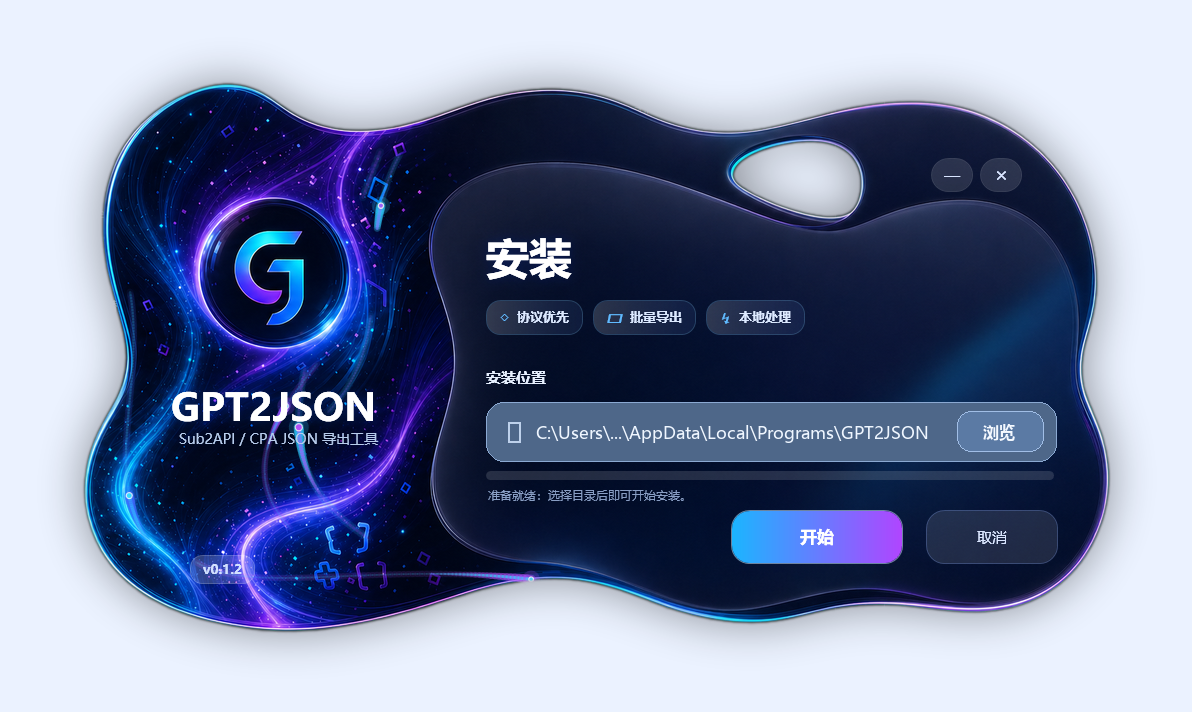
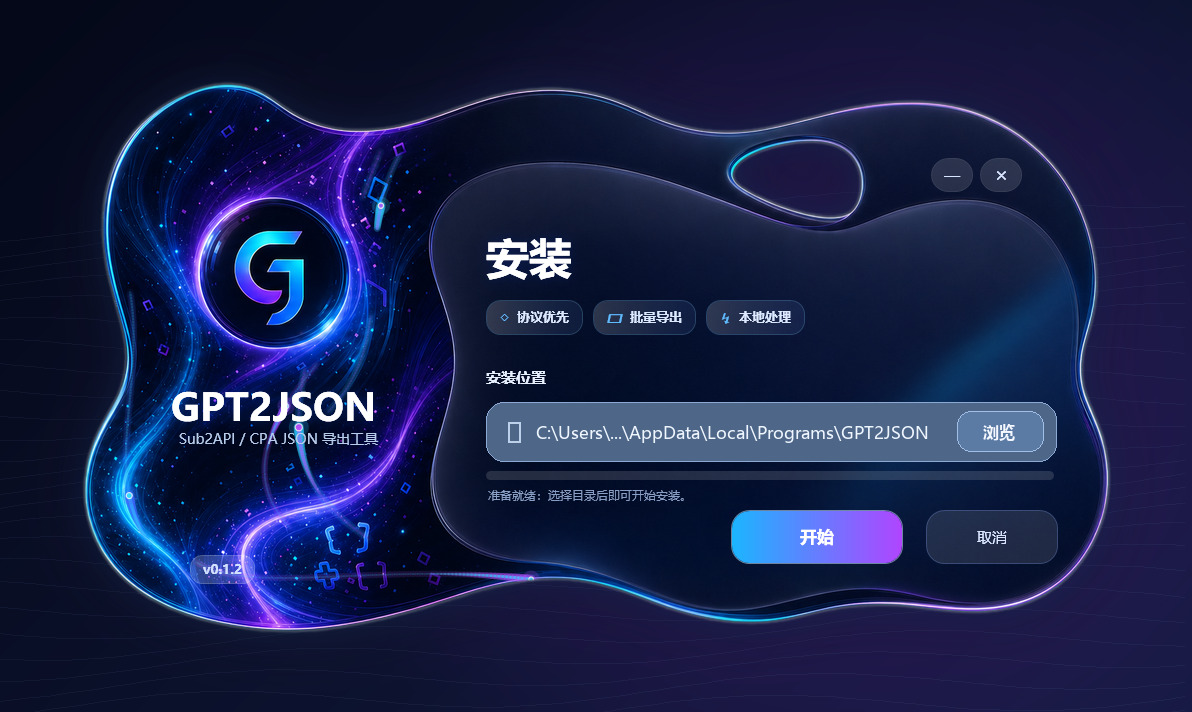
Polish README layout and installer preview

diff --git a/README.md b/README.md
@@ -5,44 +5,70 @@
 <h1 align="center">GPT2JSON</h1>
 
 <p align="center">
-  面向中文环境的 Sub2API / CPA JSON 导出工具。协议优先、轻量桌面化、本地生成、批次隔离。
+  面向中文交付场景的 <b>Sub2API / CPA JSON 导出工具</b>：协议优先、本地生成、批次隔离，不直接写入后台。
 </p>
 
 <p align="center">
-  <a href="https://github.com/AyeSt0/gpt2json/releases"><img alt="Latest Release" src="https://img.shields.io/github/v/release/AyeSt0/gpt2json?style=for-the-badge&label=release&color=2563EB"></a>
+  <a href="https://github.com/AyeSt0/gpt2json/releases/latest"><img alt="下载 Windows 安装器" src="https://img.shields.io/badge/%E4%B8%8B%E8%BD%BD-Windows%20%E5%AE%89%E8%A3%85%E5%99%A8-38BDF8?style=for-the-badge&logo=windows11&logoColor=white"></a>
+  <a href="https://github.com/AyeSt0/gpt2json/releases/latest"><img alt="下载 ZIP 便携包" src="https://img.shields.io/badge/%E4%B8%8B%E8%BD%BD-ZIP%20%E4%BE%BF%E6%90%BA%E5%8C%85-8B5CF6?style=for-the-badge&logo=github&logoColor=white"></a>
   <a href="https://github.com/AyeSt0/gpt2json/actions/workflows/ci.yml"><img alt="CI" src="https://img.shields.io/github/actions/workflow/status/AyeSt0/gpt2json/ci.yml?branch=main&style=for-the-badge&label=tests"></a>
   <a href="LICENSE"><img alt="License" src="https://img.shields.io/github/license/AyeSt0/gpt2json?style=for-the-badge"></a>
-  <img alt="Python" src="https://img.shields.io/badge/python-3.10%2B-3776AB?style=for-the-badge&logo=python&logoColor=white">
-  <img alt="GUI" src="https://img.shields.io/badge/gui-PySide6-7C3AED?style=for-the-badge">
 </p>
 
 <p align="center">
-  <a href="#-它解决什么问题">解决的问题</a> ·
+  <a href="#-为什么用-gpt2json">为什么用</a> ·
+  <a href="#-界面预览">界面预览</a> ·
   <a href="#-快速开始">快速开始</a> ·
-  <a href="#-输入格式">输入格式</a> ·
-  <a href="#-输出结构">输出结构</a> ·
-  <a href="#-发行包">发行包</a> ·
-  <a href="#-路线图">路线图</a>
+  <a href="#-当前支持的输入">输入格式</a> ·
+  <a href="#-输出结果">输出结果</a> ·
+  <a href="#-windows-发行包">Windows 发行包</a> ·
+  <a href="#-开发">开发</a>
 </p>
 
 ---
 
-## ✨ 它解决什么问题
+## ✦ 为什么用 GPT2JSON
 
-GPT2JSON 把账号文本批量转换为可导入的 **Sub2API JSON** 和 / 或 **CPA 单账号 JSON**。它只在本地生成文件，不会直接写入 Sub2API 后台，适合“先生成、再检查、最后导入”的交付流程。
+很多账号交付流程里，真正需要的不是“把账号直接塞进某个后台”，而是先把可导入的 JSON 文件稳定生成出来，再由你检查、归档、导入。GPT2JSON 做的就是这一步：把账号文本转换为 **Sub2API JSON** 和 / 或 **CPA 单账号 JSON**。
 
-| 能力 | 当前状态 | 说明 |
+| 设计点 | 用户收益 |
+| --- | --- |
+| **协议优先** | 默认走 HTTP/OAuth 流程，避免浏览器自动化带来的慢、重、不稳定。 |
+| **本地生成** | 不直连你的 Sub2API 后台；导出文件保存在本机，导入动作由你控制。 |
+| **批次隔离** | 每次运行创建唯一结果目录，历史文件不被覆盖，方便回溯。 |
+| **中文 GUI** | 粘贴、导入、导出、日志、失败报告都按中文使用习惯组织。 |
+| **可扩展输入** | 当前先适配 LDXP Plus7 三段式；后续 parser / OTP backend 可持续增加。 |
+
+```mermaid
+flowchart LR
+  A["粘贴 / 导入账号文本"] --> B["自动识别格式"]
+  B --> C["协议登录"]
+  C --> D{"是否需要验证码"}
+  D -- "大多数账号" --> F["换取 JSON"]
+  D -- "少数跳验证" --> E["免登录取码源 / OTP backend"]
+  E --> F
+  F --> G["Sub2API JSON"]
+  F --> H["CPA 单账号 JSON + ZIP"]
+  G --> I["打开本次结果目录"]
+  H --> I
+```
+
+## ✦ 当前能力
+
+| 模块 | 状态 | 说明 |
 | --- | --- | --- |
-| 协议登录 | ✅ 已实现 | 默认走 HTTP/OAuth 流程，不拉起浏览器自动化。 |
-| 粘贴 / 文件输入 | ✅ 已实现 | 桌面端可直接粘贴多行，也可导入文本文件。 |
-| 自动并发 | ✅ 已实现 | 默认按账号数量自动选择并发，也支持手动输入。 |
-| 免登录取码 URL | ✅ 已实现 | 支持 JSON / 文本 / HTML 内 API 自动发现。 |
+| 账号输入 | ✅ 已实现 | 支持粘贴多行，也支持导入 `.txt` 文件。 |
+| 自动识别 | ✅ 已实现 | 默认 `自动识别（推荐）`；未实现格式在界面中置灰展示。 |
+| 登录流程 | ✅ 已实现 | 账密优先；只有服务端要求时才进入验证码阶段。 |
+| 免登录取码 URL | ✅ 已实现 | 支持 JSON / 文本 / HTML 中自动提取验证码或发现接口。 |
+| 并发与重试 | ✅ 已实现 | 默认自动并发；失败阶段可重试并输出诊断。 |
 | Sub2API 导出 | ✅ 已实现 | 生成 `sub2api_accounts.secret.json`。 |
-| CPA 导出 | ✅ 已实现 | 一个账号一个 JSON，同时生成 ZIP 包。 |
-| 唯一批次目录 | ✅ 已实现 | 每次导出新建 `GPT2JSON_<时间戳>_<编码>/`，不覆盖历史。 |
-| 多协议邮箱取码 | 🧭 规划中 | IMAP / Graph / JMAP / POP3 / Provider API。 |
+| CPA 导出 | ✅ 已实现 | 每个账号一个 JSON，同时生成 ZIP 包和 manifest。 |
+| 取码协议扩展 | 🧭 规划中 | IMAP / Graph / JMAP / POP3 / Provider API。 |
 
-## 🖥 桌面界面
+> GPT2JSON 只负责生成 JSON 文件，不会直接写入你的 Sub2API 管理后台。这样更安全，也更适合批量交付前检查。
+
+## ✦ 界面预览
 
 <p align="center">
   <picture>
@@ -51,34 +77,30 @@ GPT2JSON 把账号文本批量转换为可导入的 **Sub2API JSON** 和 / 或 *
   </picture>
 </p>
 
-桌面版以中文用户为主：账号输入、导出格式、并发、输出位置、日志诊断都集中在一个窗口里。日志会用序号标记账号阶段，尽量把“正在登录 / 等验证码 / 自动重试 / 已输出到哪里”说清楚。
+界面重点放在四件事：**账号输入、导出格式、输出目录、过程日志**。日志会带账号序号和阶段提示，让用户知道当前卡在登录、取码、回调、写文件还是自动重试。
 
-## 🚀 快速开始
+## ✦ 快速开始
 
-### 桌面版
+### 方式 A：下载 Windows 发行包（推荐）
+
+1. 打开 [GitHub Releases](https://github.com/AyeSt0/gpt2json/releases/latest)。
+2. 普通用户下载 `GPT2JSON-Setup-vX.Y.Z.exe`。
+3. 免安装用户下载 `GPT2JSON-vX.Y.Z-windows-x64.zip`。
+4. 启动后粘贴账号文本，选择 `Sub2API JSON`、`CPA JSON` 或二者同时导出。
+
+### 方式 B：从源码运行
 
 ```bash
+git clone https://github.com/AyeSt0/gpt2json.git
+cd gpt2json
 python -m pip install -e .[gui]
 gpt2json-gui
 ```
 
-使用步骤：
-
-1. 保持账号格式为 `自动识别（推荐）`；
-2. 粘贴账号文本，或导入账号文件；
-3. 选择输出根目录；
-4. 勾选 `Sub2API JSON`、`CPA JSON`，可单选也可全选；
-5. 并发保持 `自动`，必要时再手动调整；
-6. 点击 `开始导出`，完成后打开本次结果目录。
-
-### CLI
+CLI 也可直接批处理：
 
 ```bash
-gpt2json \
-  --input accounts.txt \
-  --out-dir output \
-  --concurrency 0 \
-  --input-format auto
+gpt2json --input accounts.txt --out-dir output --concurrency 0 --input-format auto
 ```
 
 从标准输入读取：
@@ -87,26 +109,17 @@ gpt2json \
 cat accounts.txt | gpt2json --stdin --out-dir output --no-cpa
 ```
 
-查看版本和帮助：
-
-```bash
-gpt2json --version
-gpt2json --help
-```
-
-## 📥 输入格式
-
-GPT2JSON 的输入解析由 parser 注册表驱动。桌面版下拉栏会展示当前格式和未来预制格式；未实现的格式会置灰，避免误选。
+## ✦ 当前支持的输入
 
 当前版本优先适配 **LDXP Plus7** 的三段式账号格式：
 
-> 当前支持来源：[pay.ldxp.cn/shop/plus7](https://pay.ldxp.cn/shop/plus7)
+> 格式来源：[`pay.ldxp.cn/shop/plus7`](https://pay.ldxp.cn/shop/plus7)
 
 ```text
 GPT邮箱----GPT密码----OTP取码源
 ```
 
-示例：
+示例（合成数据）：
 
 ```text
 user@example.test----example-gpt-password----https://otp-service.test/latest?mail={email}
@@ -114,23 +127,22 @@ user@example.test----example-gpt-password----https://otp-service.test/latest?mai
 
 | 字段 | 含义 | 注意 |
 | --- | --- | --- |
-| `GPT邮箱` | GPT/OpenAI 登录邮箱 | 仅作为 GPT 账号使用。 |
-| `GPT密码` | GPT/OpenAI 登录密码 | 不是邮箱密码。 |
-| `OTP取码源` | 免登录验证码 URL、取码邮箱或其它取码源 | 当前已实现免登录 URL；其它邮箱凭据格式后续独立接入。 |
+| `GPT邮箱` | GPT / OpenAI 登录邮箱 | 只作为 GPT 账号使用。 |
+| `GPT密码` | GPT / OpenAI 登录密码 | 不是邮箱密码。 |
+| `OTP取码源` | 免登录验证码 URL、取码邮箱或其它取码源 | 当前实现免登录 URL；其它类型会通过后续 backend 接入。 |
 
-> 后续新增格式时，会明确区分 `GPT 密码`、`邮箱密码`、`邮箱 app-password`、`access token`、`refresh token` 等字段，避免把不同凭据混在一起。
+后续新增格式时会明确区分：`GPT 密码`、`邮箱密码`、`邮箱 app-password`、`access token`、`refresh token`、`API key` 等字段，避免不同凭据语义混在一起。详细扩展说明见 [`docs/input-formats.md`](docs/input-formats.md)。
 
-更多格式扩展说明见 [`docs/input-formats.md`](docs/input-formats.md)。
+## ✦ 输出结果
 
-## 📤 输出结构
-
-每次运行都会在你选择的输出根目录下创建唯一批次目录，不会覆盖旧导出。
+每次运行都会在你选择的输出根目录下创建唯一批次目录：
 
 ```text
 output/
 └─ GPT2JSON_20260429_043512_a1b2c3/
    ├─ CPA/
-   │  └─ <account-email>.json
+   │  ├─ user01@example.test.json
+   │  └─ user02@example.test.json
    ├─ cpa_tokens_20260429_043512_a1b2c3.zip
    ├─ cpa_manifest.json
    ├─ failure_report.safe.json
@@ -147,77 +159,61 @@ output/
 | `cpa_tokens_<批次ID>.zip` | CPA 多账号打包文件，便于整体搬运。 |
 | `cpa_manifest.json` | CPA 文件索引，只记录文件列表和脱敏元数据。 |
 | `failure_report.safe.json` | 失败诊断报告，不包含原始密码、token 或取码源明文。 |
-| `summary.json` | 本次导出统计；包含 `output_root`、`out_dir`、`batch_id`。 |
-| `results.safe.jsonl` | 脱敏过程记录，用于排查阶段状态。 |
+| `summary.json` | 本次统计；包含输出根目录、结果目录和批次 ID。 |
+| `results.safe.jsonl` | 脱敏过程记录，方便定位账号阶段。 |
 
-## 📦 发行包
-
-GitHub Release 提供两类 Windows 产物：
-
-| 文件 | 推荐场景 |
-| --- | --- |
-| `GPT2JSON-Setup-vX.Y.Z.exe` | 推荐给普通用户。自定义安装外壳 + 标准安装核心。 |
-| `GPT2JSON-vX.Y.Z-windows-x64.zip` | 便携使用；解压后直接运行 `GPT2JSON.exe`。 |
+## ✦ Windows 发行包
 
 <p align="center">
-  <img src="docs/assets/installer-preview.png" alt="GPT2JSON 安装器预览" width="82%">
+  <img src="docs/assets/installer-preview.png" alt="GPT2JSON 深色安装器预览" width="82%">
 </p>
 
-运行配置保存到 `%LOCALAPPDATA%\GPT2JSON\settings.ini`。GUI 偏好不写入注册表；安装器只创建标准卸载项和快捷方式。如果希望完全免安装，使用 ZIP 便携包即可。
-
-## 🧩 协议后端规划
-
-GPT2JSON 的方向是 **backend-first**：优先沉到 IMAP / Graph / JMAP / POP3 / API 这类可复用协议层，而不是把逻辑写死在某个邮箱品牌名里。
-
-| 后端 | 状态 | 目标 |
+| 产物 | 适合场景 | 说明 |
 | --- | --- | --- |
-| HTTP no-login URL | ✅ 已实现 | 免登录取码链接。 |
-| External command | ✅ 已实现 | 本地命令扩展自定义取码。 |
-| IMAP / IMAP XOAUTH2 | 🧭 规划中 | 邮箱密码、app-password、OAuth token 取码。 |
-| Graph | 🧭 规划中 | Graph 兼容邮箱 token 取码。 |
-| JMAP | 🧭 规划中 | Fastmail、LuckMail 等 JMAP/API 型邮箱。 |
-| POP3 | 🧭 规划中 | 简单邮箱协议兜底。 |
-| Provider API | 🧭 规划中 | AtomicMail、LuckMail 等自定义 API 来源。 |
+| `GPT2JSON-Setup-vX.Y.Z.exe` | 普通用户 | 定制安装界面 + 标准安装核心；安装到所选目录下的 `GPT2JSON` 子目录。 |
+| `GPT2JSON-vX.Y.Z-windows-x64.zip` | 便携 / 临时使用 | 解压后运行 `GPT2JSON.exe`，不需要安装。 |
 
-详见 [`docs/mail-backends.md`](docs/mail-backends.md)。
+运行偏好保存到 `%LOCALAPPDATA%\GPT2JSON\settings.ini`。GUI 本身不写入业务注册表；安装器只创建 Windows 标准卸载项和快捷方式。需要完全免安装时，使用 ZIP 便携包即可。
 
-## 🔐 隐私与安全
+## ✦ 后续路线
 
-- 不要把真实账号、密码、token、cookie、导出 JSON、邮箱内容提交到 GitHub。
-- 日志、失败报告、manifest 默认只写脱敏信息。
-- `*.secret.json`、`output/`、本地构建产物已经加入 `.gitignore`。
-- 如果要反馈问题，请使用合成示例或先脱敏。
-
-更多见 [`SECURITY.md`](SECURITY.md) 与 [`docs/privacy.md`](docs/privacy.md)。
-
-## 🗺 路线图
+GPT2JSON 的长期方向是 **backend-first**：优先沉到 IMAP / Graph / JMAP / POP3 / API 这类可复用协议层，而不是把能力写死在某个邮箱品牌名里。
 
 - [x] 协议优先 OAuth → JSON 导出
-- [x] 中文 GUI：粘贴 / 文件输入、输出格式选择、深浅色主题
-- [x] 取消任务、自动重试、失败诊断报告
+- [x] 中文 GUI：粘贴 / 文件输入、深浅色主题、输出目录打开
+- [x] 自动并发、自动重试、失败诊断报告
 - [x] 唯一批次输出目录，避免覆盖历史导出
 - [ ] IMAP / IMAP XOAUTH2 取码 backend
 - [ ] Graph / JMAP / POP3 backend
 - [ ] CSV / 表格列映射导入
-- [ ] 更细的失败账号重跑入口
+- [ ] 失败账号单独重跑入口
 
-## 🛠 开发与发版
+更完整的 backend 规划见 [`docs/mail-backends.md`](docs/mail-backends.md)。
+
+## ✦ 隐私与安全
+
+- 不要把真实账号、密码、token、cookie、导出 JSON、邮箱内容提交到 GitHub。
+- 日志、失败报告、manifest 默认只写脱敏信息。
+- `*.secret.json`、`output/`、本地构建产物已经加入 `.gitignore`。
+- 反馈问题请使用合成示例，或先完成脱敏。
+
+更多见 [`SECURITY.md`](SECURITY.md) 与 [`docs/privacy.md`](docs/privacy.md)。
+
+## ✦ 开发
 
 ```bash
-git clone https://github.com/AyeSt0/gpt2json.git
-cd gpt2json
 python -m pip install -e .[dev,gui]
 python -m ruff check gpt2json tests scripts
 python -m pytest -q
 ```
 
-重新生成 README 截图和营销图：
+重新生成 README 视觉素材：
 
 ```bash
 python scripts/generate_docs_assets.py
 ```
 
-发版前检查：
+发版检查：
 
 ```bash
 python scripts/check_release.py
@@ -225,12 +221,8 @@ python -m build
 python -m twine check dist/*
 ```
 
-完整发版流程见 [`docs/release.md`](docs/release.md)。
+完整流程见 [`docs/release.md`](docs/release.md)，贡献说明见 [`CONTRIBUTING.md`](CONTRIBUTING.md)。
 
-## 🤝 贡献
-
-欢迎提交新的输入格式、OTP backend、GUI 体验改进和文档修正。请先阅读 [`CONTRIBUTING.md`](CONTRIBUTING.md)，并确保测试只使用合成数据。
-
-## 📄 许可证
+## ✦ 许可证
 
 MIT，详见 [`LICENSE`](LICENSE)。
